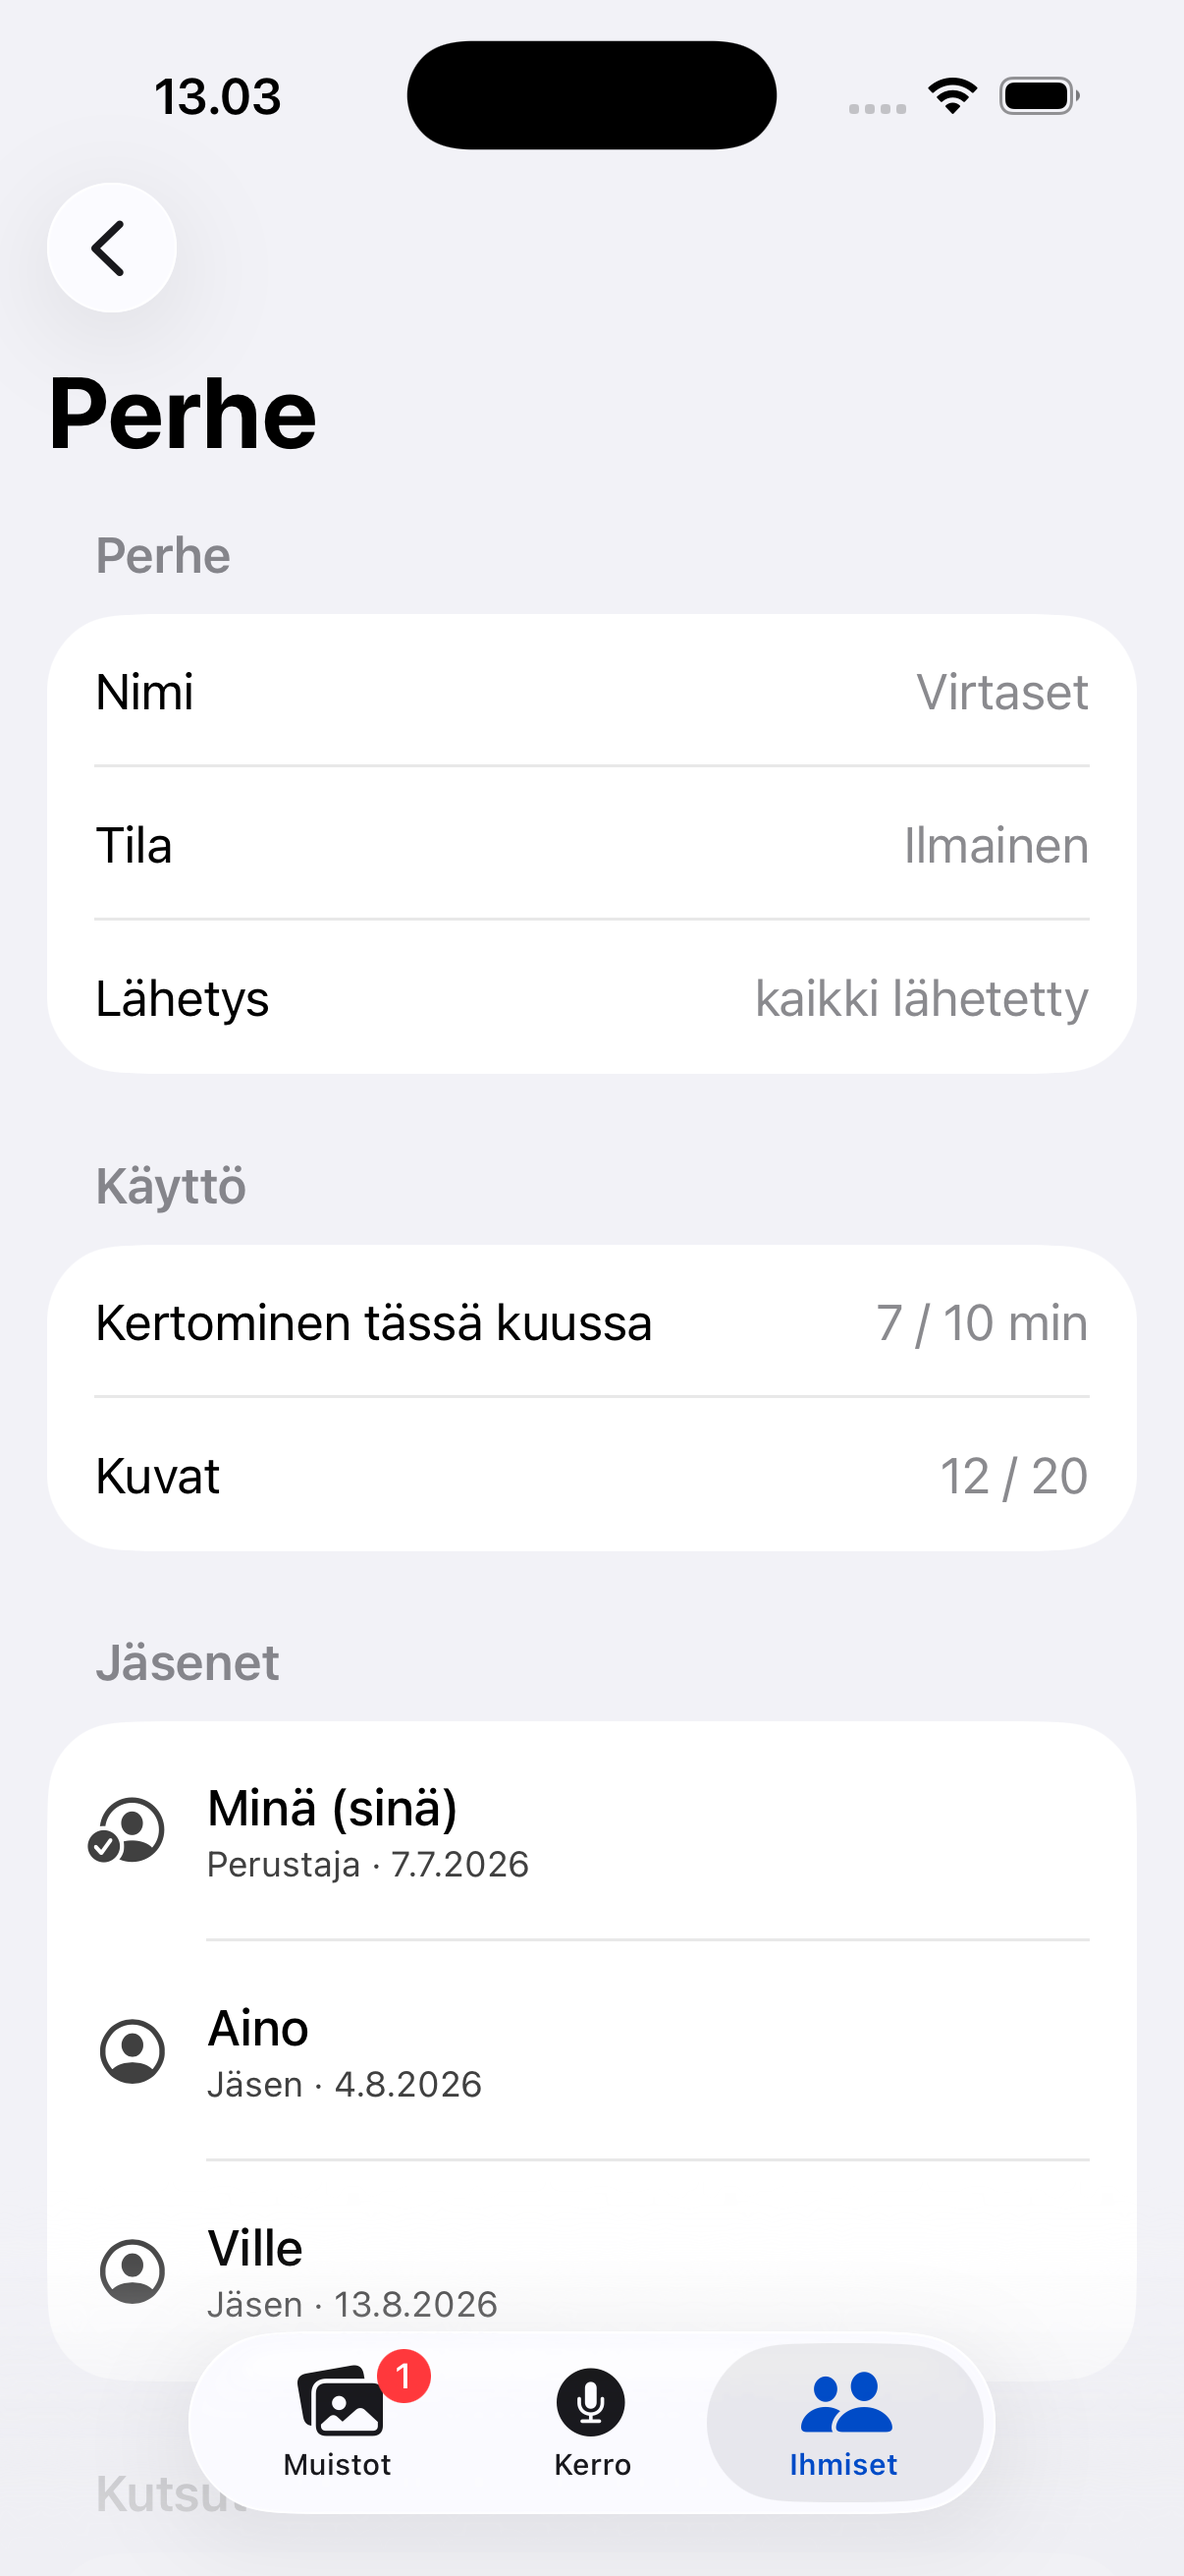
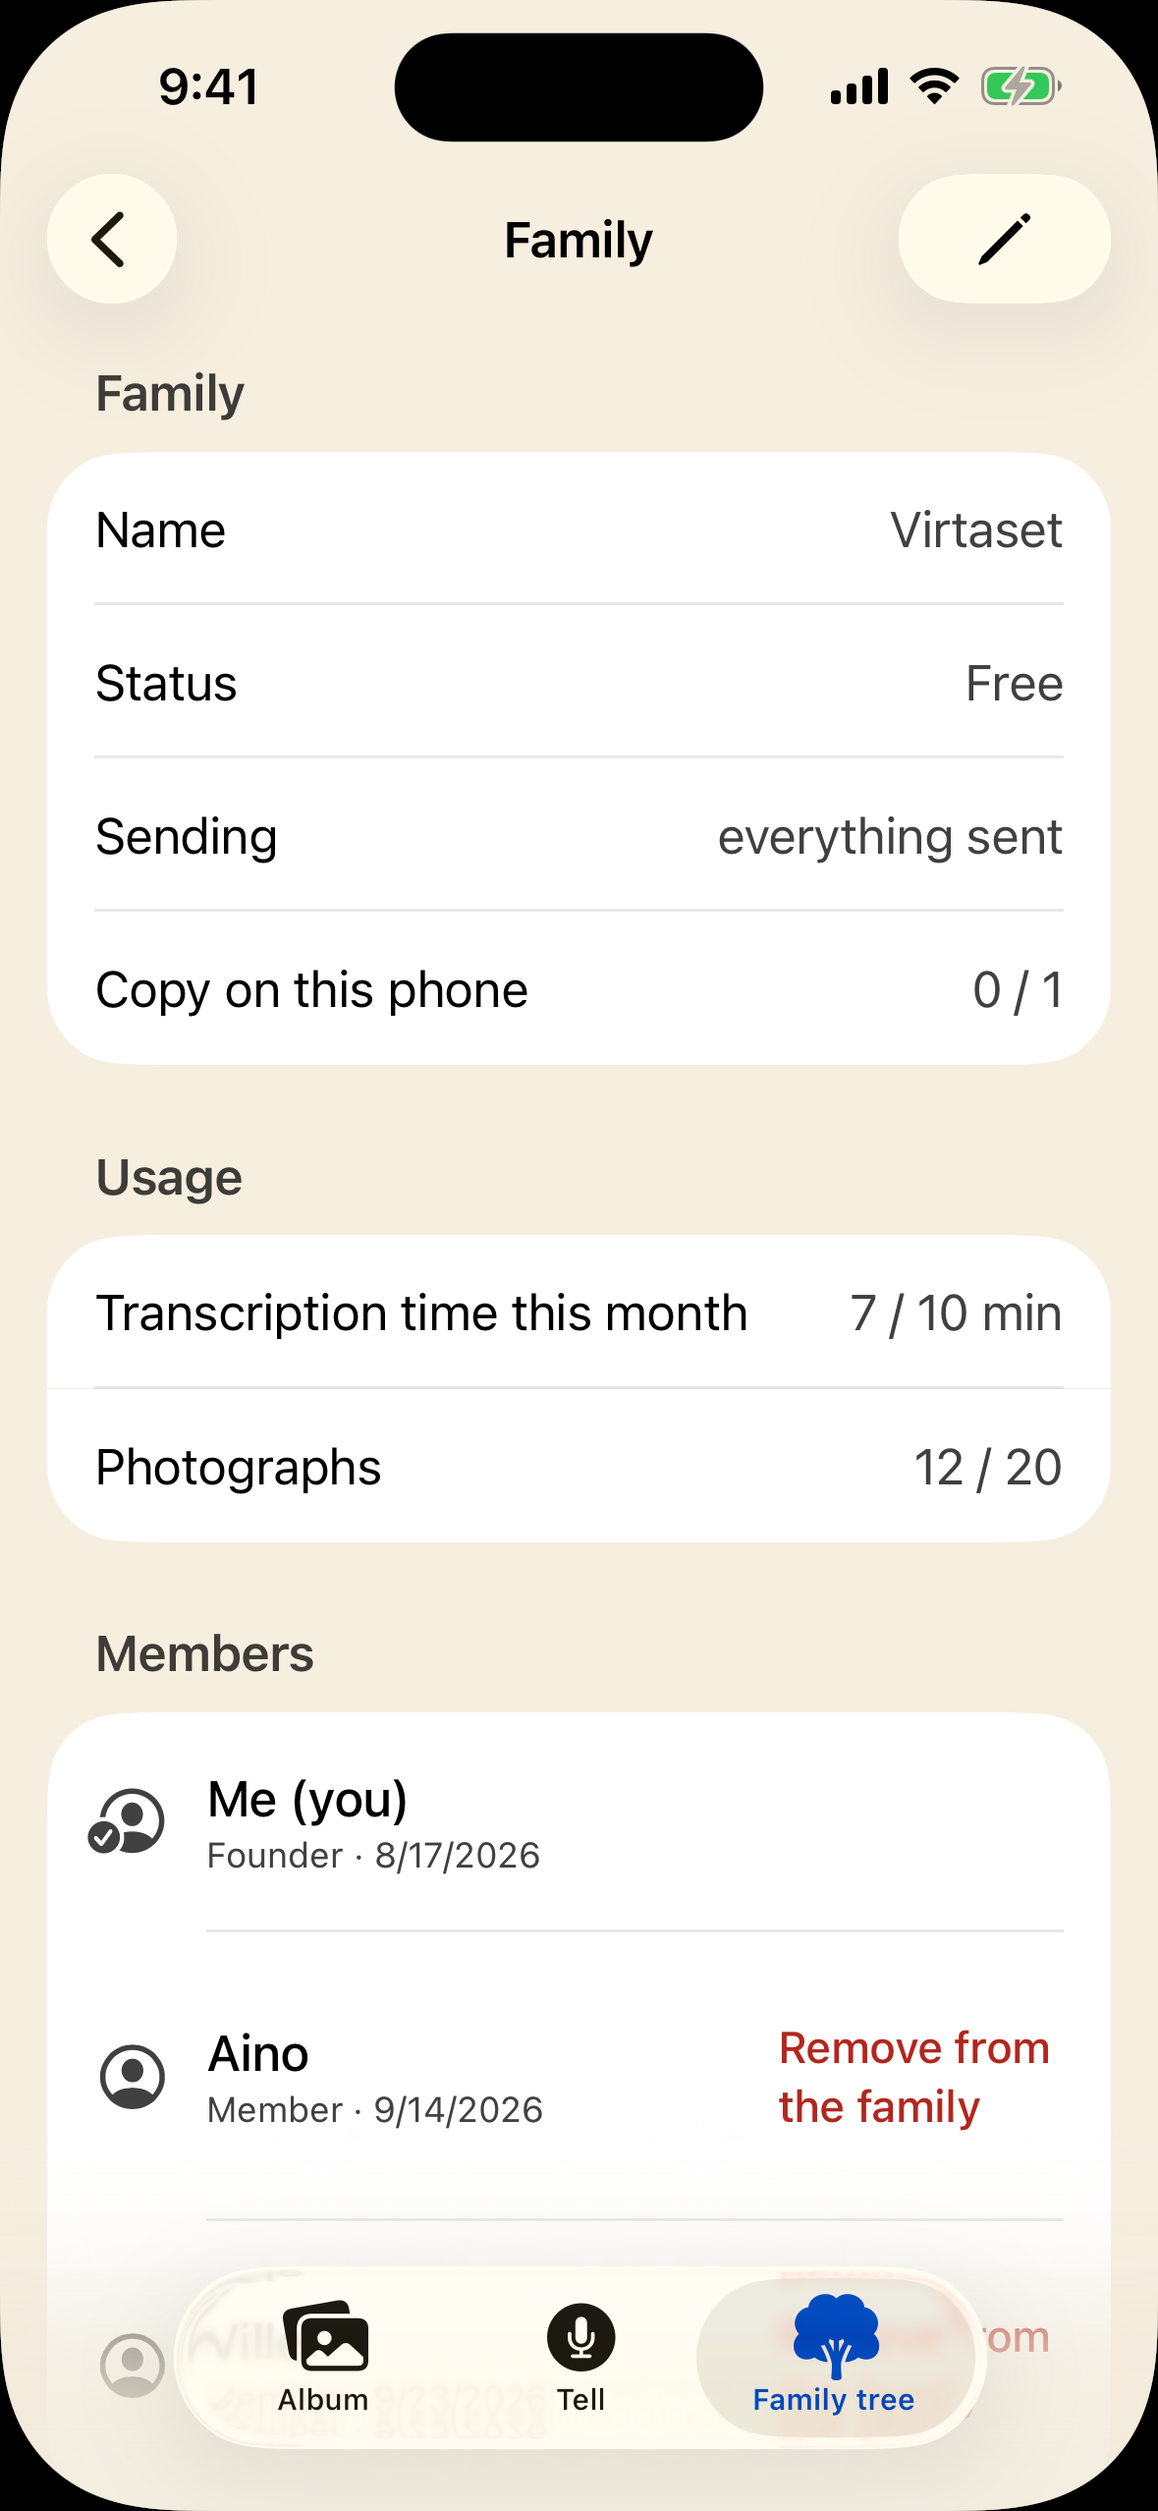
Retake the README's pictures in English from one script, and choose Devpost's five
The five stills and two GIFs under docs/media/ were taken by hand on 16 Aug
2026 and stayed Finnish for six weeks, while the app itself has answered an
English phone in English since 30 Aug. They are now screenshots of seeded
states on an iPhone 16 simulator launched with -AppleLanguages (en), taken
by scripts/readme-shots.sh so that the retake on the last day is one run
rather than an afternoon. A still is kept only once two screenshots three
seconds apart are byte-identical; the GIFs are timed captures assembled by
frames-to-gif.swift, the interview one long enough for both spoken rounds.

Two things the pictures could not avoid are said in the alt texts instead
of hidden: the sample telling is Finnish, so the result screen's transcript
is, and the demo archive's one memory on Sanni's card is too. The result
screen now opens on the "Who told this memory?" card, so the proposals the
old alt described sit below the fold and the alt no longer claims them.

An iPhone 16 draws 1179 × 2556, the size Devpost asks for; an iPhone 17 Pro
draws 1206 × 2622, which it does not — measured, and the script measures it
again rather than trusting the device name. docs/index.html carries the new
size, and its model of the family screen names the meter the way the app
does since b7b198e, "Transcription time this month". The status bar
clock follows the device's own region, not the app's launch arguments,
so the script sets the device to en_US and reboots it once, which is
[…]

diff --git a/docs/index.html b/docs/index.html
@@ -205,7 +205,7 @@
 
           <div class="quota">
             <div class="quota__row">
-              <span><span data-l="fi" lang="fi">AI-minuutit</span><span data-l="en" lang="en">AI minutes</span></span>
+              <span><span data-l="fi" lang="fi">Litterointiaika tässä kuussa</span><span data-l="en" lang="en">Transcription time this month</span></span>
               <span class="sc-nums" id="quota-text">0:00 / 10:00</span>
             </div>
             <div class="quota__track"><i id="quota-fill" style="--w:0"></i></div>
@@ -253,12 +253,12 @@
 
       <figure class="shot" data-sc-reveal="left" data-sc-reveal-at="0.06 0.5">
         <div class="shot__frame" data-sc-tilt="5">
-          <img src="media/04-person.png" width="1206" height="2622"
-               alt="Sanni's person card in the app: a large blue button reading Kerro tästä muisto, an empty Suku section offering to add a relative, and a button to ask the family.">
+          <img src="media/04-person.png" width="1179" height="2556"
+               alt="Sanni's person card in the app: Choose a face, a large blue button reading Tell a memory about this, an empty Relatives section offering Add a relative, one memory, and an Ask the family button.">
         </div>
         <figcaption>
-          <span data-l="fi" lang="fi">Oikea sovellus, omalla kielellään, iPhone 17 Pro -simulaattorissa.</span>
-          <span data-l="en" lang="en">The real app, in its own Finnish, on an iPhone 17 Pro simulator.</span>
+          <span data-l="fi" lang="fi">Oikea sovellus englanniksi, iPhone 16 -simulaattorissa.</span>
+          <span data-l="en" lang="en">The real app, in English, on an iPhone 16 simulator.</span>
         </figcaption>
       </figure>
 

diff --git a/README.md b/README.md
@@ -43,10 +43,10 @@ several of them sharing one tree. Read it after the code, not before.
 > follow-up questions back.
 
 <p align="center">
-  <img src="docs/media/demo.gif" alt="The app launching, showing Järjestelen muistoa while it works, and arriving at a saved memory placed at Puumalassa in the 1950s with three proposed subjects waiting to be confirmed." width="320">
+  <img src="docs/media/demo.gif" alt="The app at work — Putting the memory in order, finding the people, the places and the time — then Memory saved, a Move to another card button, the date 1950s, and the question Who told this memory? with the answers Me, Someone else and I would rather not be named." width="320">
 </p>
 
-<p align="center"><sub>Simulator, stub pipeline — the waiting is real, the model call is canned.<br>Reproduce it with <code>-screen result</code> and <code>scripts/frames-to-gif.swift</code>.</sub></p>
+<p align="center"><sub>Simulator, stub pipeline — the waiting is real, the model call is canned.<br>Reproduce it, and every picture on this page, with <code>scripts/readme-shots.sh</code>.</sub></p>
 
 ```
 audio → ASR (Finnish) → raw_transcript (kept verbatim)
@@ -58,7 +58,7 @@ memory.body           mentioned subjects      follow-up questions
 (cleaned text)        (confirmed = 0)         (prompt_question)
 ```
 
-| <img src="docs/media/01-tell.png" alt="The Tell screen: a large red microphone button under the heading Kerro mitä muistat, with Paina ja ala puhua below it and a link offering to type instead."> | <img src="docs/media/02-result.png" alt="The result screen: Muisto tallennettu, the memory placed at Puumalassa 1950-luku, the spoken text kept as it was said, and three proposed subjects each with a cross and a tick."> |
+| <img src="docs/media/01-tell.png" alt="The Tell screen: the heading Tell what you remember, the line Talk at your own pace, freely, a large red microphone button with Press and start talking under it, and a Write instead link."> | <img src="docs/media/02-result.png" alt="The result screen: Memory saved, a Move to another card button, the date 1950s, the card Who told this memory? with the answers Me, Someone else and I would rather not be named, and below it the beginning of the spoken text kept as it was said — in Finnish, because the sample telling is."> |
 |---|---|
 | **Telling.** One button, and a way out of it for anyone who would rather type. | **What comes back.** The date is a decade because that is what was said, and no name enters the family tree before somebody confirms it. |
 
@@ -75,10 +75,10 @@ without a tap. That matters because the person it is for should not have to
 operate anything while she is remembering:
 
 <p align="center">
-  <img src="docs/media/demo-interview.gif" alt="The app organising a memory, then asking Kuka muu oli paikalla and listening with a live waveform, then organising again and asking Minä vuonna tämä suunnilleen oli — two full rounds with no tap in between." width="320">
+  <img src="docs/media/demo-interview.gif" alt="The app putting a memory in order, then asking Who else was there? and listening with a running timer, then writing the speech down as text, putting it in order again and asking What sort of person was Aino? — two full rounds with no tap in between." width="320">
 </p>
 
-<p align="center"><sub>Two rounds, hands-free. The 1:14 on the timer is real waiting, not a cut.<br>Reproduce it with <code>-screen interview</code>.</sub></p>
+<p align="center"><sub>Two rounds, hands-free. The timer counts real seconds, not a cut.<br>Reproduce it with <code>scripts/readme-shots.sh</code>, which runs <code>-screen interview</code>.</sub></p>
 
 How the questions are chosen, and why they get more personal only as the
 answers earn it, is the question ladder in
@@ -116,9 +116,9 @@ attaches to any subject. That is why *"write a memory about this photo"* and
 path, and why the family tree is just the edges between person subjects.
 Schema: [`backend/schema.sql`](backend/schema.sql).
 
-| <img src="docs/media/04-person.png" alt="A person card for Sanni: a large blue button reading Kerro tästä muisto, an empty Suku section offering to add a relative, one memory, and a button to ask the family."> | <img src="docs/media/05-family.png" alt="The family screen for the Virtaset family on the free tier: 7 of 10 minutes of telling used this month, 12 of 20 photos, and three members with the dates they joined."> |
+| <img src="docs/media/04-person.png" alt="A person card for Sanni: Choose a face, a large blue button reading Tell a memory about this, an empty Relatives section offering Add a relative, one memory told by Mummo — in Finnish, because the demo archive is — and an Ask the family button."> | <img src="docs/media/05-family.png" alt="The family screen for the Virtaset family on the Free tier: everything sent, the copy on this phone, this month's usage — 7 of 10 minutes of transcription time and 12 of 20 photographs — and the members with the dates they joined."> |
 |---|---|
-| A person card is the same screen as a photo, because a person is the same row. The empty **Suku** section is the point: a gap is an invitation, not an error. | One archive, several members, one shared quota. The quota belongs to the family rather than to whoever paid for it — see **Who pays**. |
+| A person card is the same screen as a photo, because a person is the same row. The empty **Relatives** section is the point: a gap is an invitation, not an error. | One archive, several members, one shared quota. The quota belongs to the family rather than to whoever paid for it — see **Who pays**. |
 
 ## How to check any of this yourself
 
@@ -186,7 +186,7 @@ session, the 15 Aug commit reported 15 failures that were not real — see
 But the number is not the argument. This is one screen at the default text size
 and at the largest one iOS offers, which is the size rule 1 is actually about:
 
-| <img src="docs/media/02-result.png" alt="The result screen at the default text size: heading, placement, the spoken text, and three proposed subjects all visible at once."> | <img src="docs/media/06-result-xxxl.png" alt="The same result screen at the largest accessibility text size: the heading wraps to two lines, the text reflows, nothing is clipped or truncated, and the screen scrolls instead."> |
+| <img src="docs/media/02-result.png" alt="The result screen at the default text size: Memory saved, Move to another card, the date 1950s, the whole Who told this memory? card and the start of the spoken text, all visible at once."> | <img src="docs/media/06-result-xxxl.png" alt="The same result screen at the largest accessibility text size: Memory saved wraps to two lines, Move to another card to two and Who told this memory? to three, nothing is clipped or truncated, and the screen scrolls instead."> |
 |---|---|
 | Default | Accessibility XXXL |
 
